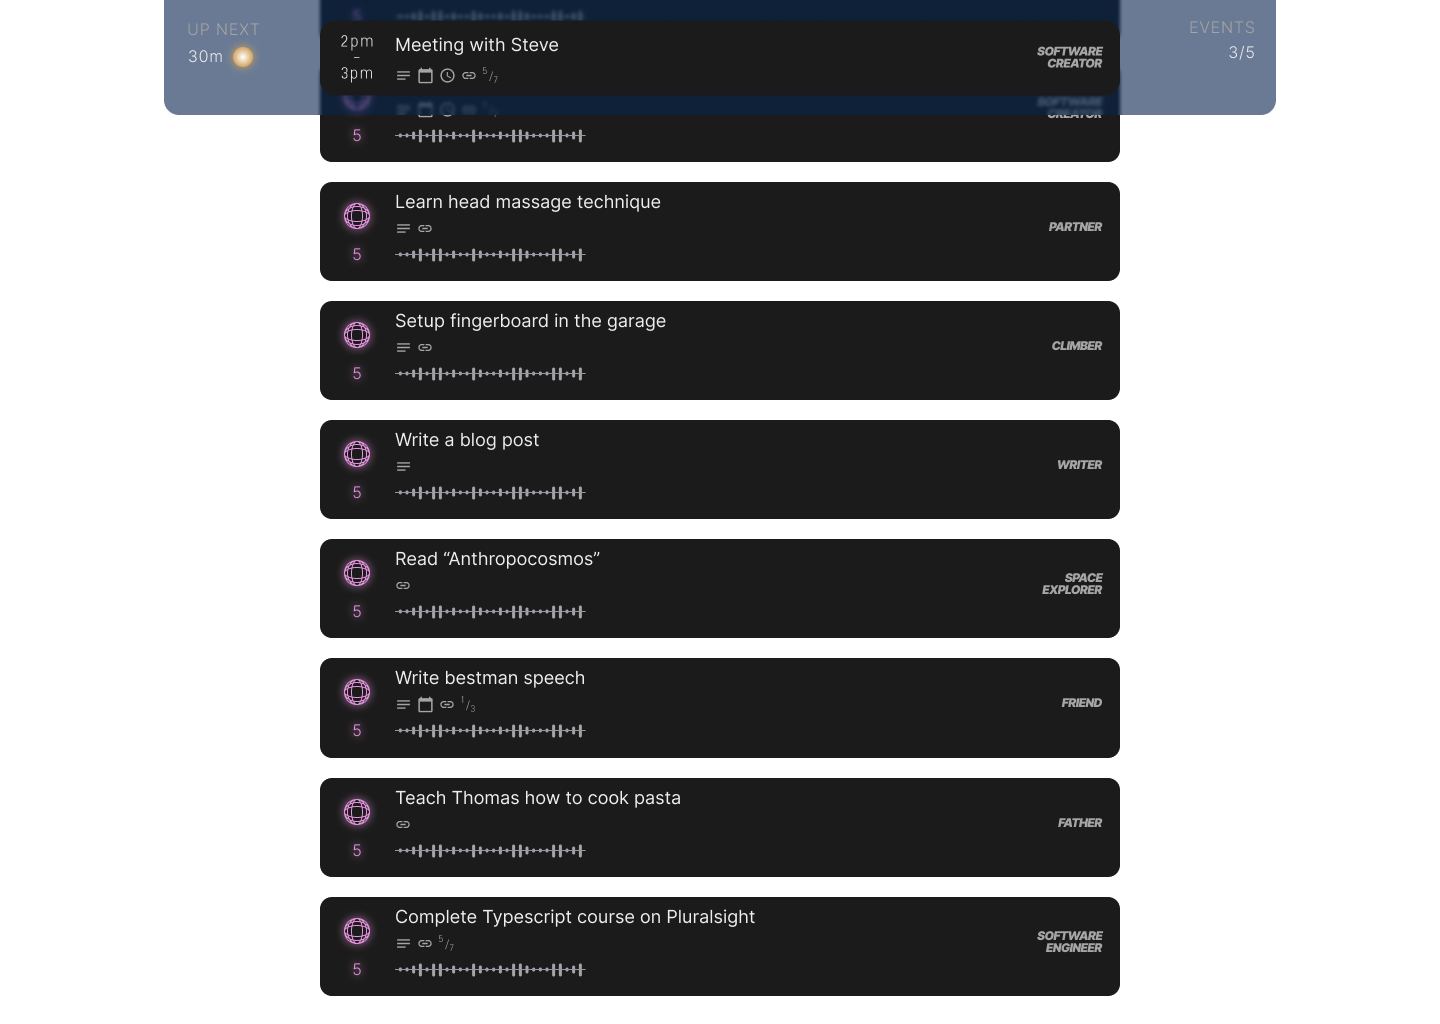
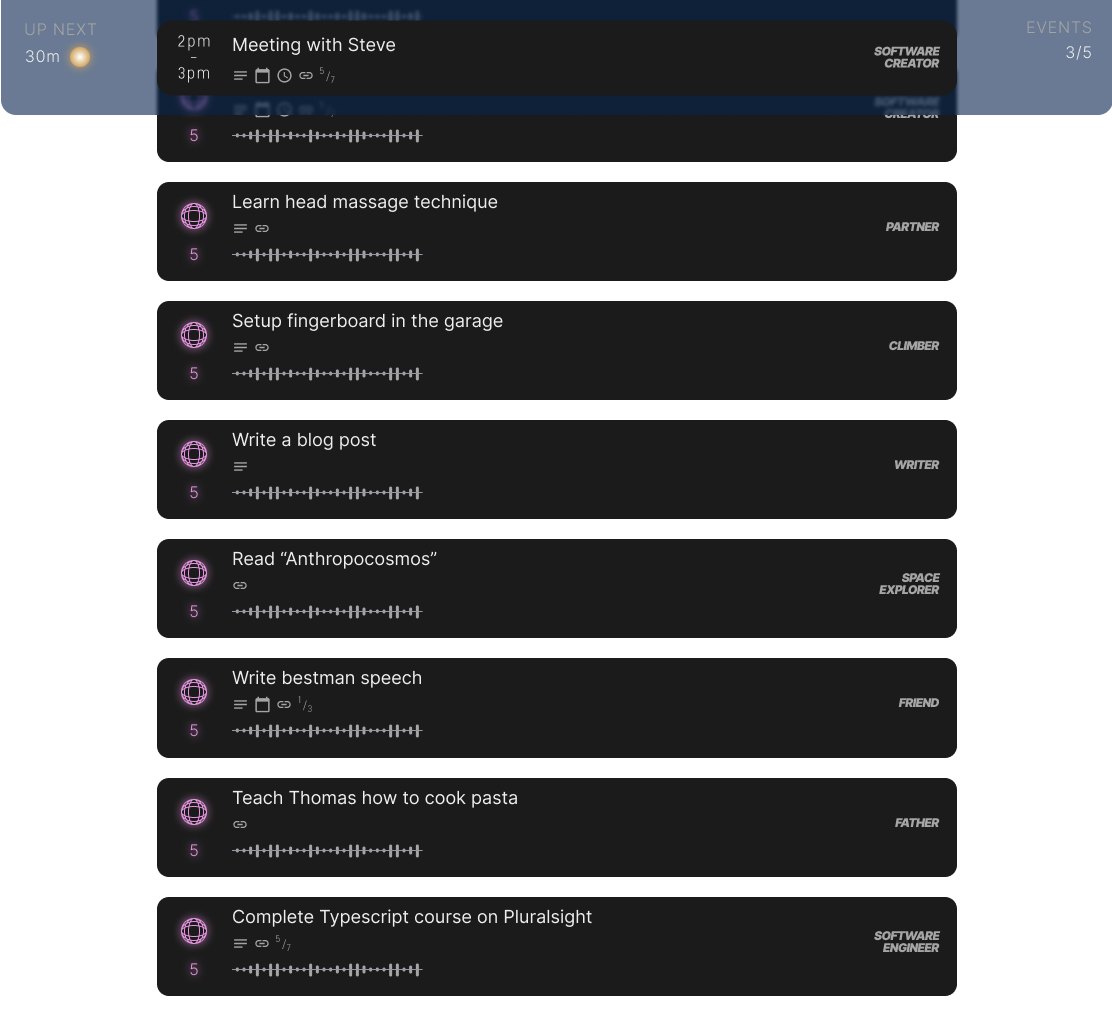
Make app screenshot bigger

Changed region(s): [[0.0, 0.0, 0.5504, 1.0], [0.7032, 0.0, 1.0, 1.0]]

diff --git a/components/landingPage/LandingScreen.tsx b/components/landingPage/LandingScreen.tsx
@@ -26,7 +26,7 @@ export default function LandingScreen(props) {
 			{/* <div className="left-0 right-0 m-auto my-4 w-full flex-grow overflow-hidden md:w-10/12">
 				<AppDemo />
 			</div> */}
-			<div className="relative m-4 h-full w-full">
+			<div className="relative h-full w-full">
 				<Image
 					src={appScreenshot}
 					className="p-4"